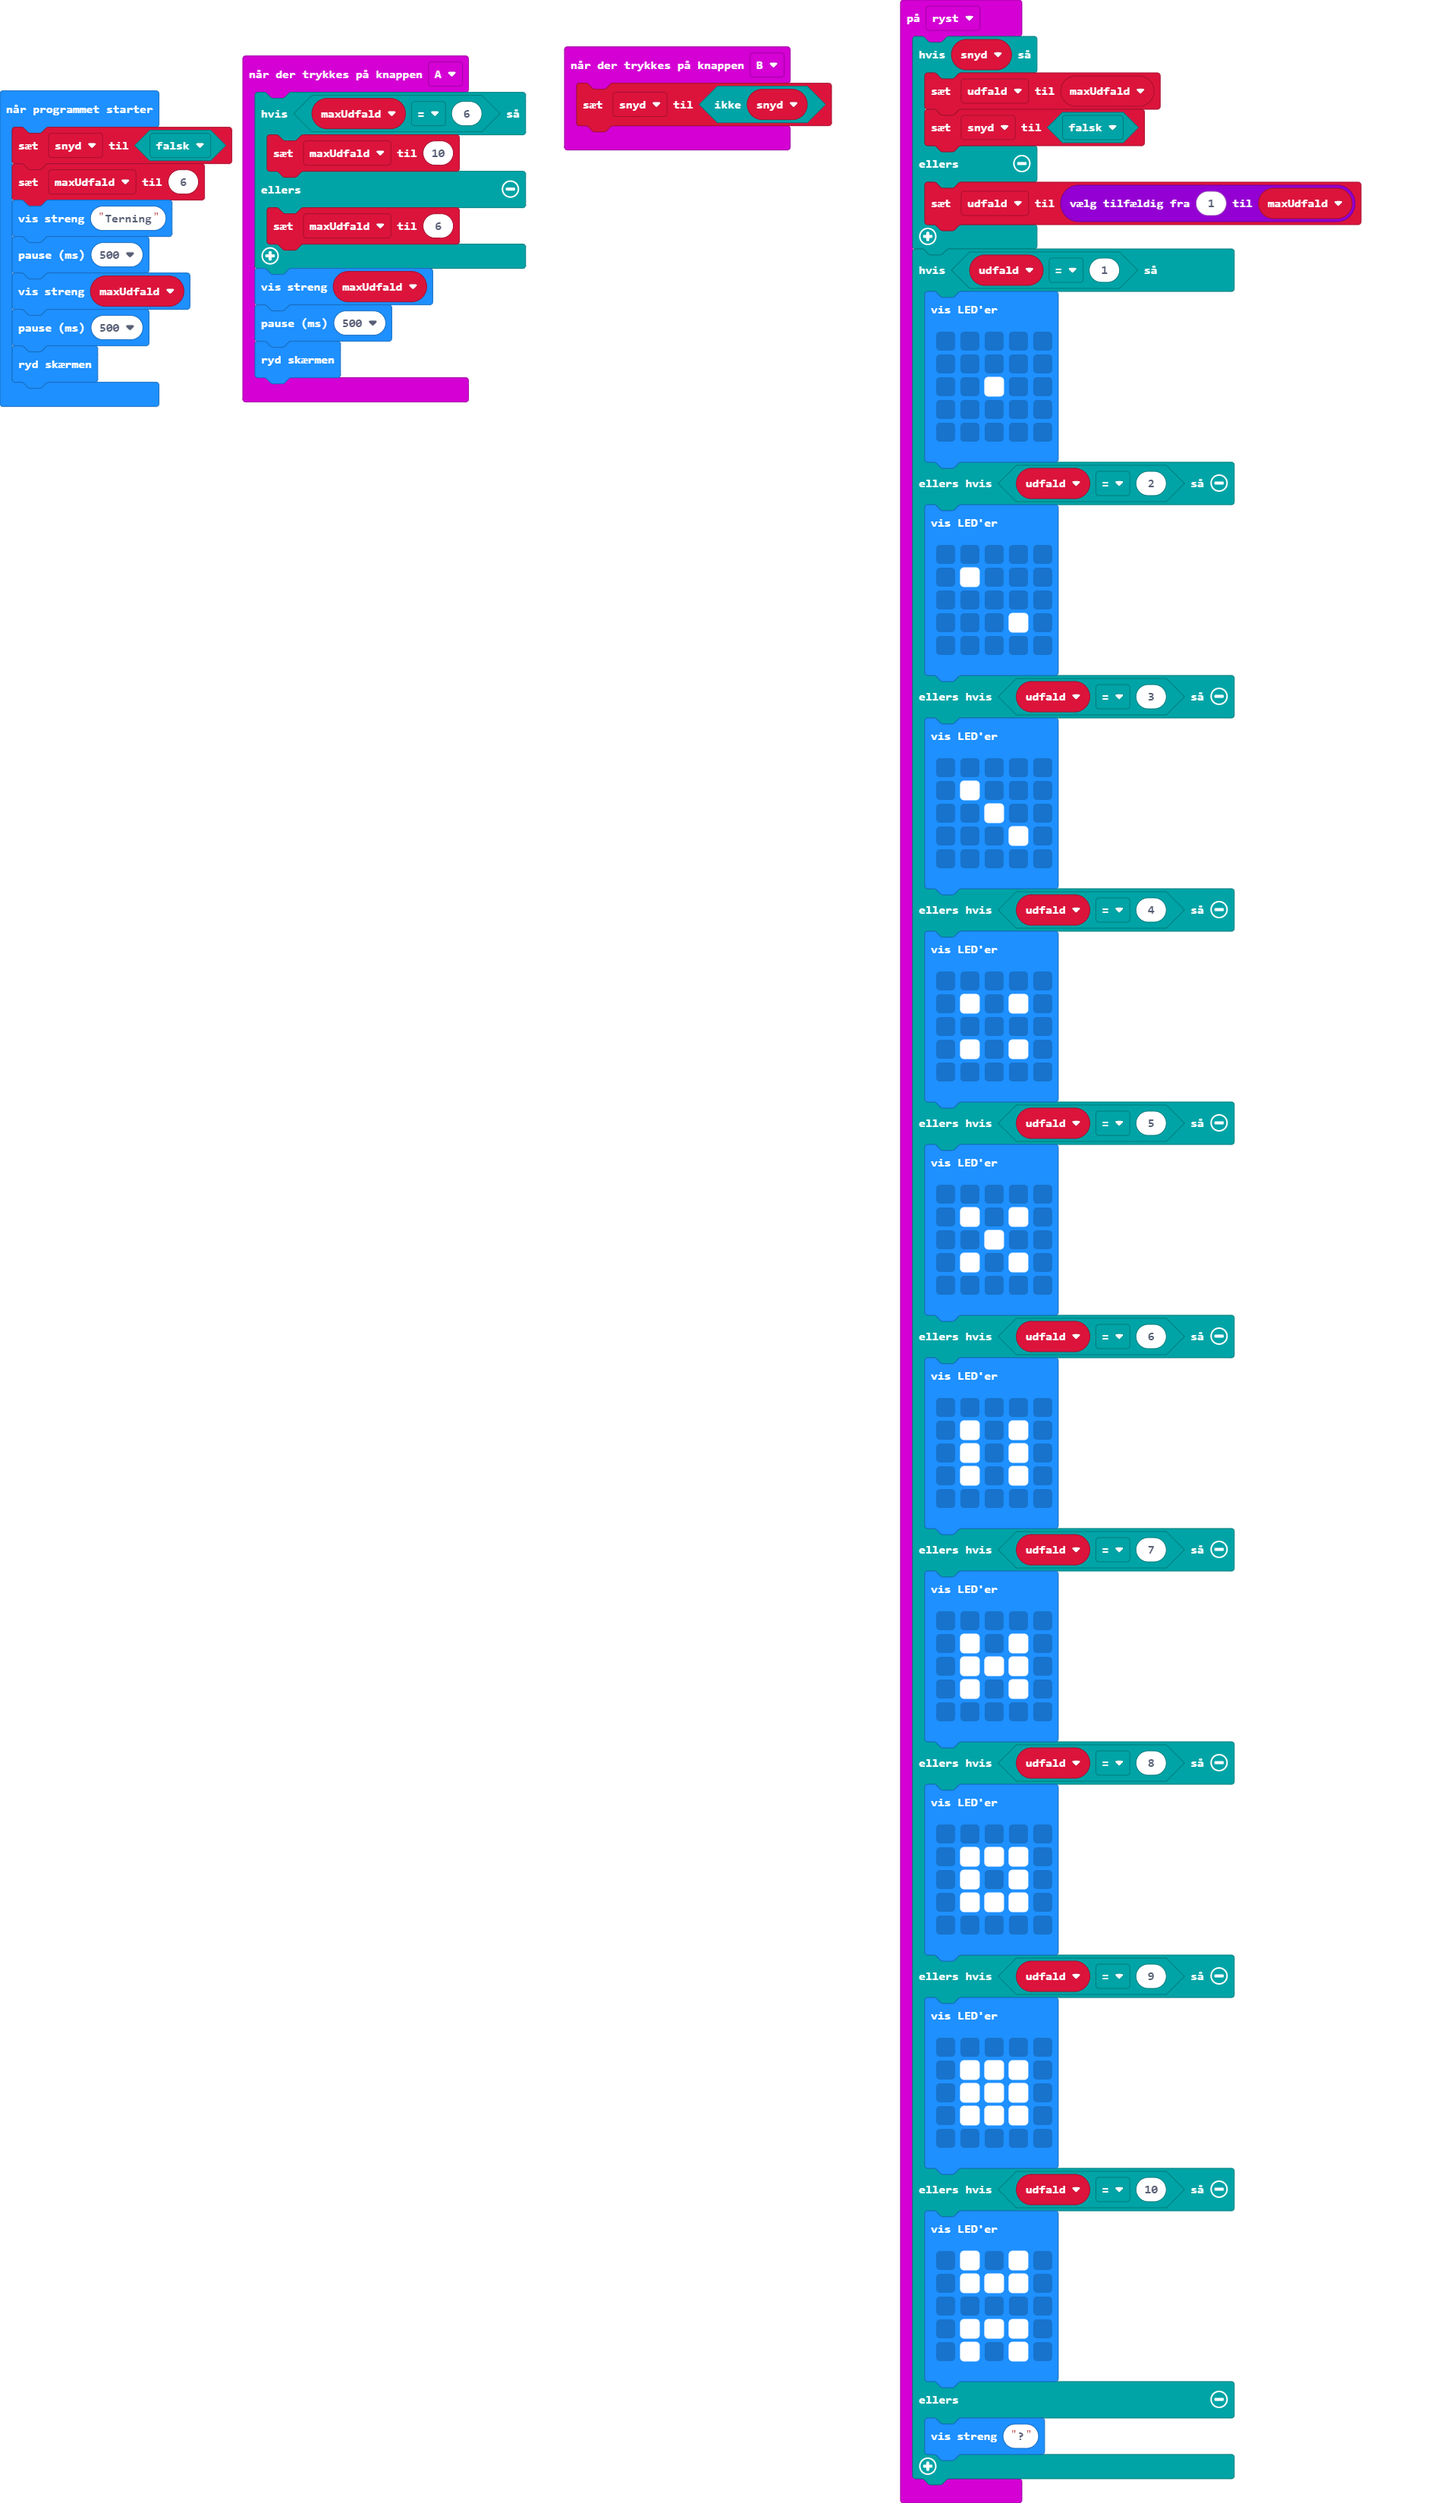
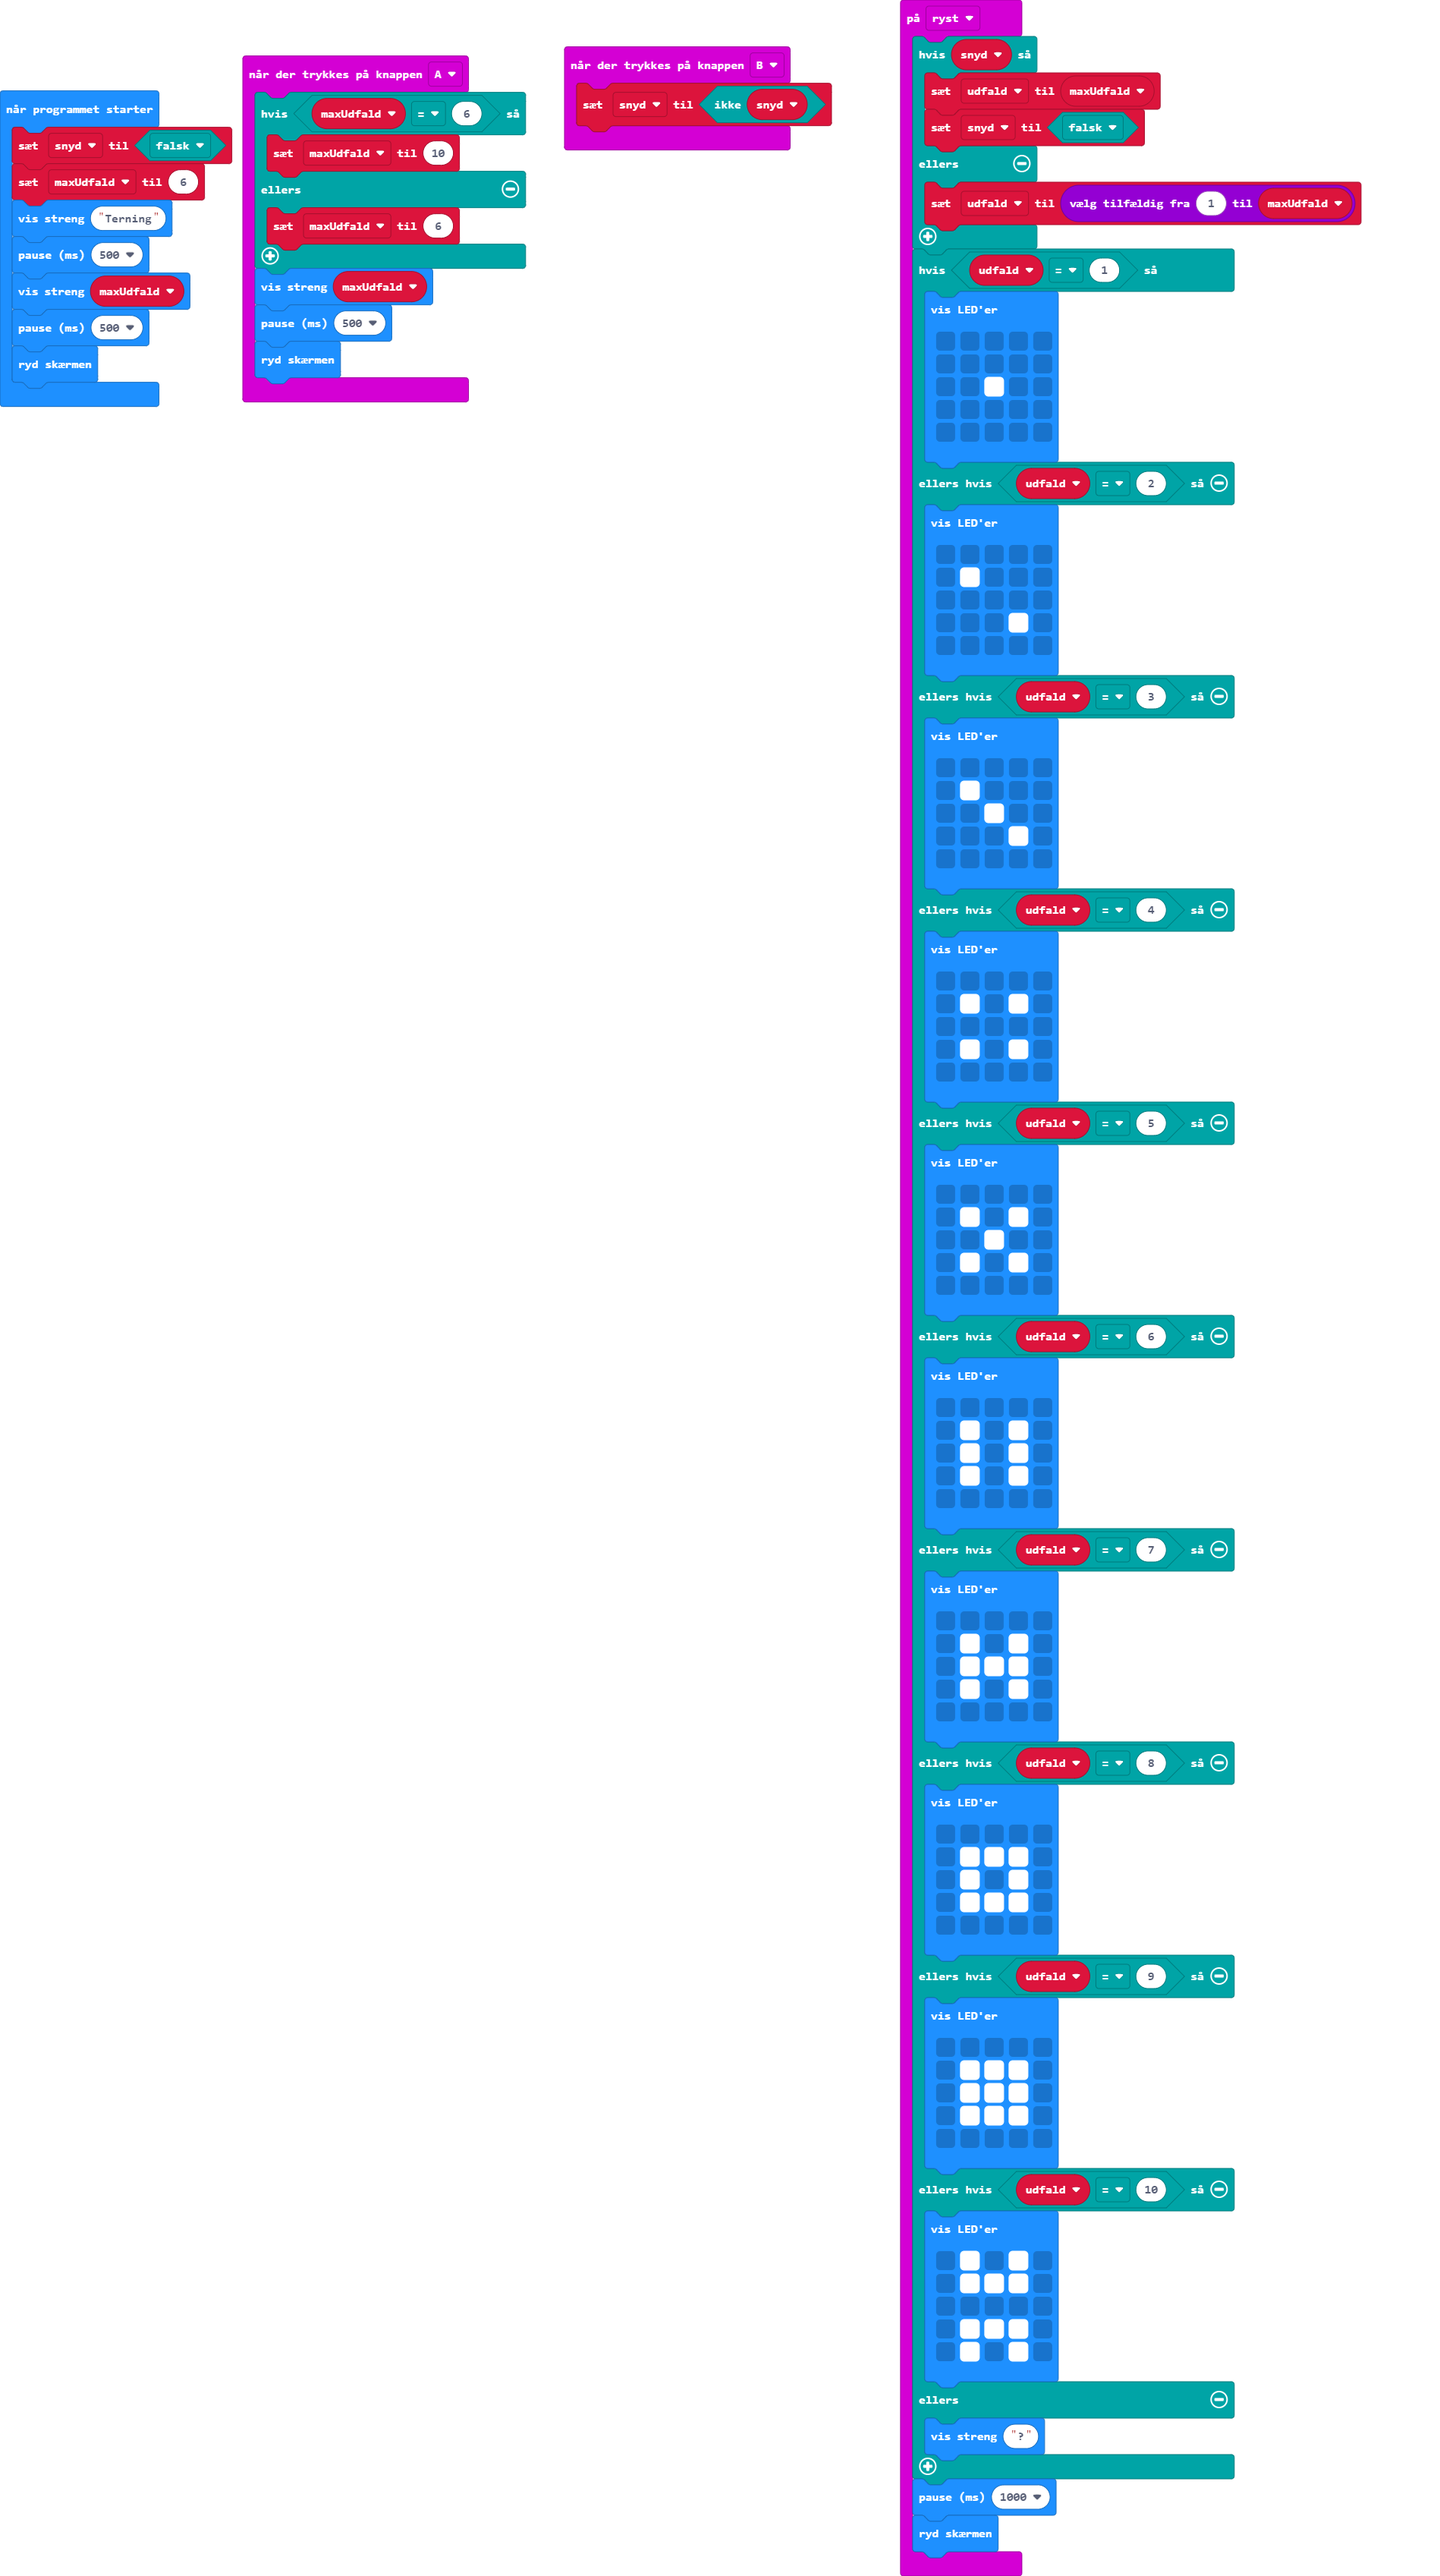
Opdater main.blocks, main.ts

diff --git a/main.ts b/main.ts
@@ -88,6 +88,8 @@ input.onGesture(Gesture.Shake, function () {
     } else {
         basic.showString("?")
     }
+    basic.pause(1000)
+    basic.clearScreen()
 })
 input.onButtonPressed(Button.A, function () {
     if (maxUdfald == 6) {
